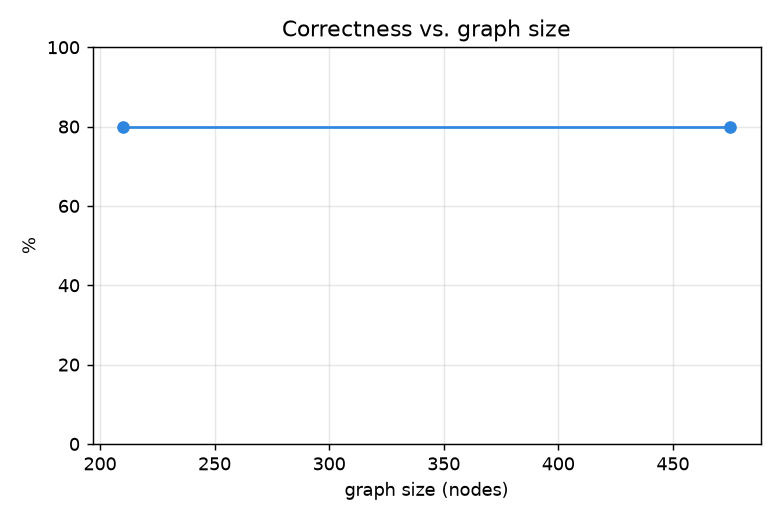
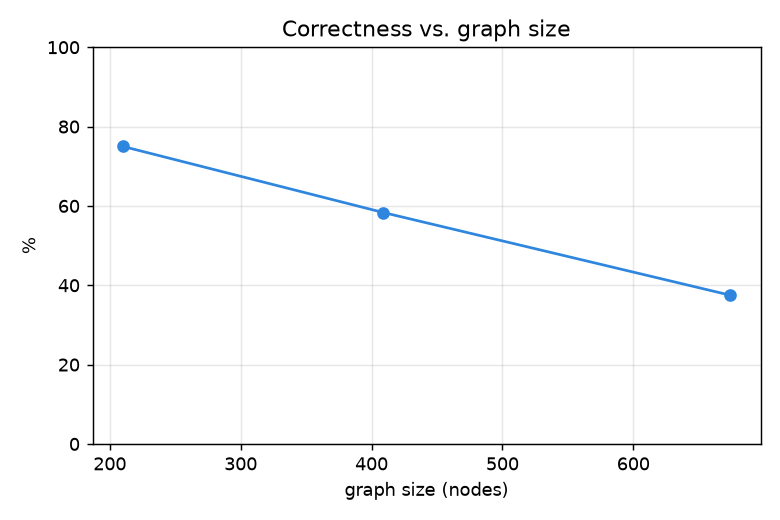
Update benchmark results
Expanded evaluation from 10 to 104 runs with updated metrics across correctness, hallucination rate, and performance. Added new graph size category (674 nodes) to scaling analysis. Images regenerated to reflect current results.

diff --git a/results/metrics.md b/results/metrics.md
@@ -2,17 +2,18 @@
 
 | Metric | Value |
 | --- | --- |
-| Runs | 10 |
-| Correctness | 80.0% |
-| Valid-path rate | 80.0% |
-| Hallucination rate | 0.0% |
-| Avg tool calls (solved) | 3.50 |
-| Avg runtime (s) | 24.49 |
-| Agent misses (of reachable) | 0/8 |
+| Runs | 104 |
+| Correctness | 57.7% |
+| Valid-path rate | 37.5% |
+| Hallucination rate | 2.9% |
+| Avg tool calls (solved) | 4.38 |
+| Avg runtime (s) | 20.54 |
+| Agent misses (of reachable) | 44/83 |
 
 ### Scaling by graph size
 
 | Nodes | Runs | Correctness | Hallucination | Avg tool calls | Avg time (s) |
 | ---: | ---: | ---: | ---: | ---: | ---: |
-| 210 | 5 | 80.0% | 0.0% | 5.2 | 24.51 |
-| 475 | 5 | 80.0% | 0.0% | 5.2 | 24.47 |
+| 210 | 36 | 75.0% | 5.6% | 5.7 | 17.82 |
+| 409 | 36 | 58.3% | 2.8% | 6.1 | 19.84 |
+| 674 | 32 | 37.5% | 0.0% | 8.0 | 24.40 |
